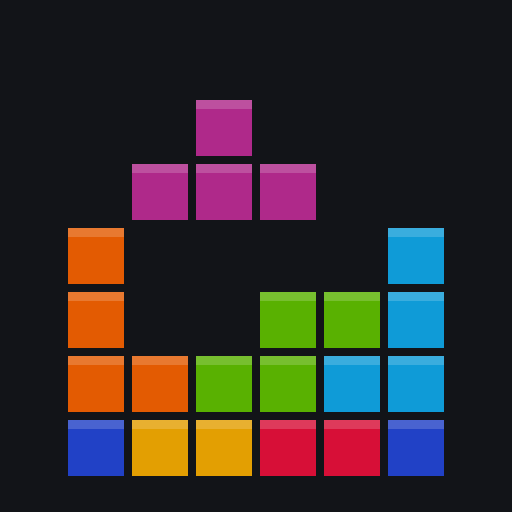
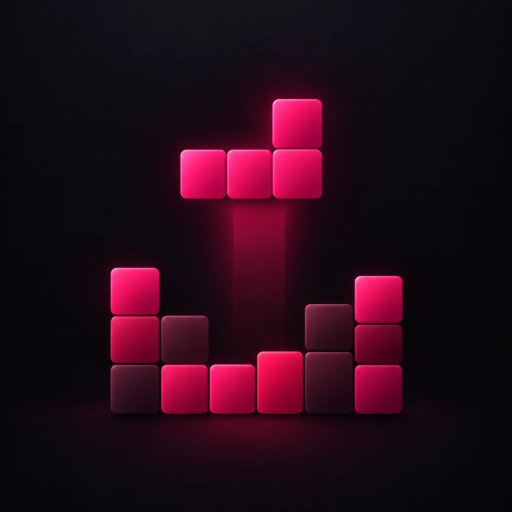
Novo ícone do app

diff --git a/main.js b/main.js
@@ -5,7 +5,7 @@ import { SKINS, drawBlock } from './skins.js';
 const $ = id => document.getElementById(id);
 
 // Bump on every deploy so the menu shows which version the phone is running
-const VERSION = 23;
+const VERSION = 24;
 
 // ---------- rules ----------
 const COLS = 10, ROWS = 22, HID = 2, VIS = ROWS - HID, PREVIEW = 5;
